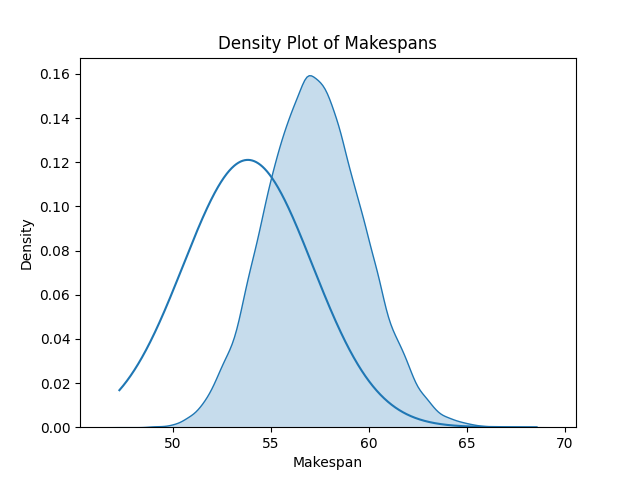
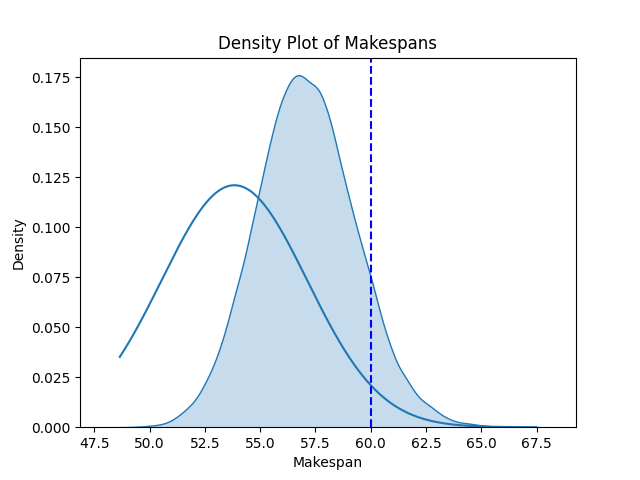
minor fixes

diff --git a/PERT/visualize.py b/PERT/visualize.py
@@ -1,10 +1,16 @@
 import networkx as nx
 import matplotlib.pyplot as plt
 import matplotlib.lines as mlines
-import os
+import os, sys, ast
 from networkx.drawing.nx_agraph import graphviz_layout
+from os.path import realpath, dirname
 from collections import defaultdict
 from CPM import *
+import numpy as np
+import pandas as pd
+import seaborn as sns
+from scipy.stats import norm
+from job_PERT import *
 
 # Define a class State to represent each state with its incoming and outgoing jobs
 class State(object):
@@ -251,3 +257,103 @@ def visualize_PERT(jobs: dict, CPM_results: tuple, network: Network, outputpath:
 
     plt.savefig(outputpath+'/PERT.png')
     plt.show()
+
+def run(inputpath, outputpath, threshold):
+    df = pd.read_csv(inputpath)
+
+    # Convert the "predecessors" column to a list
+    df['predecessors'] = df['predecessors'].apply(ast.literal_eval)
+    df['id'] = df['id'].apply(str)
+
+
+    # Convert the DataFrame to a dictionary
+    jobs_dict = df.to_dict('index')
+
+    # Convert the keys to 'id'
+    jobs_dict = {value['id']: value for key, value in jobs_dict.items()}
+
+    jobs = {id: OJob(**job_data) for id, job_data in jobs_dict.items()}
+
+    # Create the network and add jobs and dependencies
+    network = Network(jobs)
+
+    # Find out all possible paths
+    paths = all_paths(network)
+
+    # Run the CPM algorithm
+    CPM_results = CPM(network)
+    earliest_start_time, earliest_finish_time, latest_start_time, latest_finish_time, slacks, critical_path, makespan = CPM_results
+    mean = 0
+    std = 0
+    for critical_path in network.critical_paths:
+        id_list = [job.id for job in critical_path]
+        X = df[df['id'].isin(id_list)]
+        X = X[['optimistic', 'most_likely', 'pessimistic']].values
+        
+        tmp_mean = 0
+        tmp_std = 0
+        for i in range(len(X)):
+            tmp_mean += (X[i][0]+4*X[i][1]+X[i][2])/6
+            tmp_std += ((X[i][2]-X[i][0])/6)*((X[i][2]-X[i][0])/6)
+        tmp_std = np.sqrt(tmp_std)
+
+        if tmp_mean > mean:
+            mean = tmp_mean
+            std = tmp_std
+
+    makespans = []
+    critical_paths = defaultdict(int)
+    tmp = {}
+    tmp_makespans = defaultdict(list)
+
+    ITERATION = 50000
+    for i in range(ITERATION):
+        jobs, CPM_results, network = cal(jobs_dict)
+        earliest_start_time, earliest_finish_time, latest_start_time, latest_finish_time, slacks, critical_path, makespan = CPM_results
+        makespans += [makespan]
+        for critical_path in network.critical_paths:
+            critical_paths[str(critical_path)] += 1
+            tmp[str(critical_path)] = (jobs, CPM_results, network)
+            tmp_makespans[str(critical_path)].append(makespan)
+
+    plt.figure()
+    min_makespan = np.min(makespans)
+    max_makespan = np.max(makespans)
+    sns.kdeplot(makespans, fill=True)
+    x = np.linspace(min_makespan, max_makespan, 1000)
+    y = (1 / np.sqrt(2 * np.pi * std**2)) * np.exp(-(x-mean)**2 / (2 * std**2))
+    plt.plot(x, y)
+    if threshold is not None:
+        plt.axvline(x=threshold, color='blue', linestyle='--', label=f'{threshold}')
+    plt.title('Density Plot of Makespans')
+    plt.xlabel('Makespan')
+    plt.savefig(outputpath+'/density_plot.png')
+    
+    max_key = max(critical_paths, key=critical_paths.get)
+    jobs, CPM_results, network = tmp[max_key]
+
+    earliest_start_time, earliest_finish_time, latest_start_time, latest_finish_time, slacks, critical_path, makespan = CPM_results
+    CPM_results = earliest_start_time, earliest_finish_time, latest_start_time, latest_finish_time, slacks, list(max_key), makespan
+    makespan = round(np.average(tmp_makespans[max_key]), 1)
+    mode_path_proportion = np.round(critical_paths[max_key]/ITERATION*100, 2)
+    print("Mode Critical Path:", max_key)
+    print("Mode Makespan: ", makespan)
+    print(f"Mode Path Proportion:  {mode_path_proportion}%")
+    if threshold is not None:
+        print(f'             \tsim\texpected')
+        print(f'Prob over {threshold}:\t{round(100.0*sum(1 for span in makespans if span > threshold)/len(makespans), 2)}%\t{round(100.0*(1-norm.cdf(threshold, mean, std)), 2)}%')
+
+    CPM_results = (mode_path_proportion, 0, 0, 0, 0, critical_path, makespan)
+    visualize_PERT(jobs, CPM_results, network, outputpath=outputpath)
+
+
+def cal(jobs_dict):
+    # Convert the dictionary back to Job objects
+    jobs = {id: PJob(**job_data) for id, job_data in jobs_dict.items()}
+
+    # Create the network and add jobs and dependencies
+    network = Network(jobs)
+
+    # Run the CPM algorithm
+    CPM_results = CPM(network)
+    return jobs, CPM_results, network

diff --git a/PERT/main.py b/PERT/main.py
@@ -1,117 +1,9 @@
-import sys
-import ast
-import numpy as np
-import pandas as pd
-import seaborn as sns
-import matplotlib.pyplot as plt
-from collections import defaultdict
-from os.path import realpath, dirname
+
+
 from CPM import *
 from job_PERT import *
 from visualize import *
 
-def main():
-    if len(sys.argv) > 1:
-        inputpath = sys.argv[1]
-    if len(sys.argv) > 2:
-        outputpath = sys.argv[2]
-    else:
-        inputpath = dirname(realpath(__file__))+'/input/example.csv'
-        outputpath = DEAFULT_PATH
-
-    df = pd.read_csv(inputpath)
-
-    # Convert the "predecessors" column to a list
-    df['predecessors'] = df['predecessors'].apply(ast.literal_eval)
-    df['id'] = df['id'].apply(str)
-
-
-    # Convert the DataFrame to a dictionary
-    jobs_dict = df.to_dict('index')
-
-    # Convert the keys to 'id'
-    jobs_dict = {value['id']: value for key, value in jobs_dict.items()}
-
-    jobs = {id: OJob(**job_data) for id, job_data in jobs_dict.items()}
-
-    # Create the network and add jobs and dependencies
-    network = Network(jobs)
-
-    # Find out all possible paths
-    paths = all_paths(network)
-
-    # Run the CPM algorithm
-    CPM_results = CPM(network)
-    earliest_start_time, earliest_finish_time, latest_start_time, latest_finish_time, slacks, critical_path, makespan = CPM_results
-    mean = 0
-    std = 0
-    for critical_path in network.critical_paths:
-        id_list = [job.id for job in critical_path]
-        X = df[df['id'].isin(id_list)]
-        X = X[['optimistic', 'most_likely', 'pessimistic']].values
-        
-        tmp_mean = 0
-        tmp_std = 0
-        for i in range(len(X)):
-            tmp_mean += (X[i][0]+4*X[i][1]+X[i][2])/6
-            tmp_std += ((X[i][2]-X[i][0])/6)*((X[i][2]-X[i][0])/6)
-        tmp_std = np.sqrt(tmp_std)
-
-        if tmp_mean > mean:
-            mean = tmp_mean
-            std = tmp_std
-
-    makespans = []
-    critical_paths = defaultdict(int)
-    tmp = {}
-    tmp_makespans = defaultdict(list)
-
-    ITERATION = 50000
-    for i in range(ITERATION):
-        jobs, CPM_results, network = cal(jobs_dict)
-        earliest_start_time, earliest_finish_time, latest_start_time, latest_finish_time, slacks, critical_path, makespan = CPM_results
-        makespans += [makespan]
-        for critical_path in network.critical_paths:
-            critical_paths[str(critical_path)] += 1
-            tmp[str(critical_path)] = (jobs, CPM_results, network)
-            tmp_makespans[str(critical_path)].append(makespan)
-
-    plt.figure()
-    min_makespan = np.min(makespans)
-    max_makespan = np.max(makespans)
-    sns.kdeplot(makespans, fill=True)
-    x = np.linspace(min_makespan, max_makespan, 1000)
-    y = (1 / np.sqrt(2 * np.pi * std**2)) * np.exp(-(x-mean)**2 / (2 * std**2))
-    plt.plot(x, y)
-    plt.title('Density Plot of Makespans')
-    plt.xlabel('Makespan')
-    plt.savefig(outputpath+'/density_plot.png')
-    
-    max_key = max(critical_paths, key=critical_paths.get)
-    jobs, CPM_results, network = tmp[max_key]
-
-    earliest_start_time, earliest_finish_time, latest_start_time, latest_finish_time, slacks, critical_path, makespan = CPM_results
-    CPM_results = earliest_start_time, earliest_finish_time, latest_start_time, latest_finish_time, slacks, list(max_key), makespan
-    makespan = round(np.average(tmp_makespans[max_key]), 1)
-    mode_path_proportion = np.round(critical_paths[max_key]/ITERATION*100, 2)
-    print("Mode Critical Path:", max_key)
-    print("Mode Makespan: ", makespan)
-    print(f"Mode Path Proportion:  {mode_path_proportion}%")
-    CPM_results = (mode_path_proportion, 0, 0, 0, 0, critical_path, makespan)
-
-    visualize_PERT(jobs, CPM_results, network, outputpath=outputpath)
-
-
-def cal(jobs_dict):
-    # Convert the dictionary back to Job objects
-    jobs = {id: PJob(**job_data) for id, job_data in jobs_dict.items()}
-
-    # Create the network and add jobs and dependencies
-    network = Network(jobs)
-
-    # Run the CPM algorithm
-    CPM_results = CPM(network)
-    return jobs, CPM_results, network
-
 if __name__ == '__main__':
-    main()
+    inputpath, outputpath, threshold = arg()
+    run(inputpath, outputpath, threshold)

diff --git a/PERT/job_PERT.py b/PERT/job_PERT.py
@@ -1,11 +1,13 @@
 import matplotlib.pyplot as plt
 import numpy as np
+import sys
+from os.path import dirname, realpath
 from scipy.special import betaincinv
 from CPM import Job
 
 class PJob(Job):
     def __init__(self, id, optimistic, most_likely, pessimistic, predecessors, is_dummy=False, prev_state=None) -> None:
-        duration = self.pert_duration(optimistic, most_likely, pessimistic)
+        duration = self.normal_duration(optimistic, most_likely, pessimistic)
         super().__init__(id, duration, predecessors, is_dummy, prev_state)
 
     @staticmethod
@@ -30,9 +32,23 @@ class PJob(Job):
         alpha = 1 + 4 * (most_likely-optimistic) / (pessimistic-optimistic)
         beta = 1 + 4 * (pessimistic-most_likely) / (pessimistic - optimistic)
         z = betaincinv(alpha, beta, np.random.uniform(0, 1))
+        beta_param = 1 + 4 * (pessimistic - most_likely) / (pessimistic - optimistic)
+        z = beta.ppf(np.random.uniform(0, 1), alpha, beta_param)
         return optimistic + z * (pessimistic - optimistic)
 
 
 class OJob(Job):
     def __init__(self, id, optimistic, most_likely, pessimistic, predecessors, is_dummy=False, prev_state=None) -> None:
         super().__init__(id, most_likely, predecessors, is_dummy, prev_state)
+
+def arg():
+    inputpath = dirname(realpath(__file__))+'/input/example.csv'
+    outputpath = dirname(realpath(__file__))+'/output'
+    threshold = None
+    if len(sys.argv) > 1:
+        inputpath = sys.argv[1]
+    if len(sys.argv) > 2:
+        outputpath = sys.argv[2]
+    if len(sys.argv) > 3:
+        threshold = int(sys.argv[3])
+    return inputpath, outputpath, threshold

diff --git a/UPAS/UPAS_Solver.py b/UPAS/UPAS_Solver.py
@@ -28,7 +28,6 @@ class UPAS_Solver(object):
                 objectives[self.postprocessor.objective(until)].append(next_job)
                 sequence.pop()
             next_job_key = min(objectives.keys())
-            print(until, objectives)
             if len(objectives[next_job_key]) > 1:
                 print('multiple sequence possible!')
             sequence.append(objectives[next_job_key][0])
@@ -36,6 +35,6 @@ class UPAS_Solver(object):
         self.sequence = sequence
 
     def show(self):
-        print('objective function:', self.postprocessor.objective(self.num_mps_jobs))
+        print('objective:', self.postprocessor.objective(self.num_mps_jobs))
         print('sequence:', [job+1 for job in self.sequence])
         print('makespan:', self.postprocessor.makespan())

diff --git a/UPAS/simulation.py b/UPAS/simulation.py
@@ -1,11 +1,10 @@
 import simpy, os
 import pandas as pd
 from collections import defaultdict
+from constants import *
 
-curr_directory = os.path.dirname(os.path.realpath(__file__))
-save_path = curr_directory+'/output'
-if not os.path.exists(save_path):
-    os.makedirs(save_path)
+if not os.path.exists(SAVE_PATH):
+    os.makedirs(SAVE_PATH)
 
 class Part(object):
     def __init__(self, index: int, name: str, p: list, type: int):

diff --git a/UPAS/PreProcessing.py b/UPAS/PreProcessing.py
@@ -1,4 +1,5 @@
 import math, sys
+from constants import *
 
 def preprocess(inputpath):
     def find_MPS(N: list) -> dict:
@@ -41,7 +42,7 @@ def preprocess(inputpath):
     return num_jobs, num_machines, mps, p, weight
 
 def arg():
-    inputpath = 'input/example.txt'
+    inputpath = CURRENT_DIRECTORY+'/input/example.txt'
     first_job = 0
     if len(sys.argv) > 1:
         inputpath = sys.argv[1]

diff --git a/UPAS/model.py b/UPAS/model.py
@@ -1,6 +1,6 @@
 from simulation import *
 
-filepath = save_path+'/event_log.csv'
+filepath = SAVE_PATH+'/event_log.csv'
 
 def model(until, sequence, num_jobs, num_machines, p, w) -> None:
     env = simpy.Environment()

diff --git a/UPAS/constants.py b/UPAS/constants.py
@@ -1,0 +1,4 @@
+import os
+
+CURRENT_DIRECTORY = os.path.dirname(os.path.realpath(__file__))
+SAVE_PATH = CURRENT_DIRECTORY+'/output'

diff --git a/PERT/README.md b/PERT/README.md
@@ -41,13 +41,12 @@ Each job is represented by a dictionary where the key is the job id and the valu
 To run the program, execute the main.py script with the path to your json file and the directory where the output files will be saved as arguments:
 
 ```bash
-python main.py 'input_filename' 'output_directory'
+python main.py 'input_filename' 'output_directory' 'threshold'
 ```
 
-The program will perform a PERT analysis on the job data and output the results as a network diagram showing the jobs and their dependencies, as well as a density plot <!-- and a box plot --> showing the distribution of makespans (the total time required to complete the project). The network diagram and density plot are saved as PNG files in the specified output directory.
+The program will perform a PERT analysis on the job data and output the results as a network diagram showing the jobs and their dependencies, as well as a density plot showing the distribution of makespans (the total time required to complete the project). The network diagram and density plot are saved as PNG files in the specified output directory.
 
 ![image not found](output/example_density_plot.png)
-<!-- ![image not found](output/example_box_plot.png) -->
 ![image not found](output/example_PERT.png)
 
 ## Dependencies
